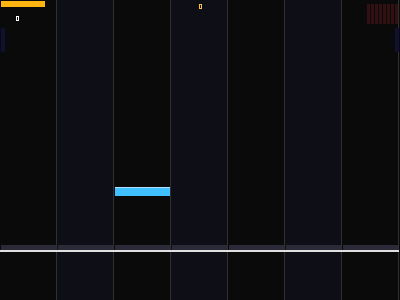
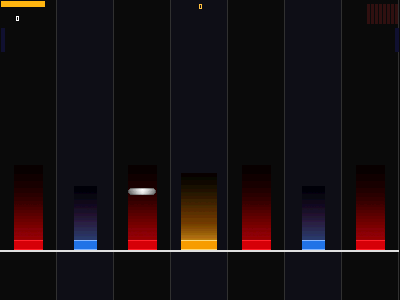
feat(cli): stage note skins in shots

Changed region(s): [[0.0, 0.6, 1.0, 0.84]]

diff --git a/crates/recomp2jam/src/shots.rs b/crates/recomp2jam/src/shots.rs
@@ -15,7 +15,7 @@ use o2jam_shell::avatar::{
     WAITING_BLOCK,
 };
 use o2jam_shell::screens::paint::PLAYING_BLOCK;
-use o2jam_shell::{GameLoop, MenuKey, Screen, ScreenGame};
+use o2jam_shell::{GameLoop, MenuKey, PlaySkin, Screen, ScreenGame};
 
 /// Screenshot width in pixels.
 pub const SHOT_W: usize = 400;
@@ -230,6 +230,9 @@ fn stage_playing_archive(game: &mut ScreenGame, archive: &[u8]) {
         placements.extend(full_canvas(&[PLAYING_GAUGE_SPRITE.to_owned()]));
     }
     game.load_scene(Screen::Playing, placements, figures);
+    if let Some(skin) = PlaySkin::from_archive(archive) {
+        game.set_play_skin(skin);
+    }
 }
 
 /// Layer genuine 7.55 archive art under every scene when
@@ -546,6 +549,75 @@ mod tests {
             return;
         };
         assert!(stage_single_sprite(&playing, LOADING_SPRITE).is_some());
+    }
+
+    #[test]
+    fn play_skin_decodes_every_lane_when_present() {
+        use o2jam_shell::playing::PlaySkin;
+        let Some(archive) = read_archive(PLAYING_ARCHIVE) else {
+            println!("skip: missing {PLAYING_ARCHIVE}");
+            return;
+        };
+        let Some(skin) = PlaySkin::from_archive(&archive) else {
+            panic!("playing: PlaySkin decoded no lanes");
+        };
+        assert!(!skin.is_empty());
+        assert_eq!(skin.staged_lanes(), 7);
+        for lane in 0..7u8 {
+            assert!(skin.note_head(lane).is_some(), "lane {lane}: no note head");
+            assert!(
+                skin.receptor_frame_count(lane) > 0,
+                "lane {lane}: no receptor frames"
+            );
+        }
+    }
+
+    #[test]
+    fn play_skin_keeps_fallback_without_archive() {
+        use o2jam_shell::playing::PlaySkin;
+        assert!(PlaySkin::from_archive(&[]).is_none());
+        assert!(PlaySkin::from_archive(&[0u8; 64]).is_none());
+        assert!(read_archive("No/Such.opi").is_none());
+    }
+
+    #[test]
+    fn skinned_highway_replaces_procedural_note_ink() {
+        use o2jam_render::{pack_xrgb, Frame};
+        use o2jam_shell::playing::{HighwayGeometry, LivePlay, PlaySkin};
+        const NOTE_BLUE: u32 = pack_xrgb(0x40, 0xC0, 0xFF);
+        let Some(archive) = read_archive(PLAYING_ARCHIVE) else {
+            println!("skip: missing {PLAYING_ARCHIVE}");
+            return;
+        };
+        let Some(skin) = PlaySkin::from_archive(&archive) else {
+            println!("skip: PlaySkin decoded no lanes");
+            return;
+        };
+        assert!(skin.note_head(2).is_some());
+        let paint_notes = |skinned: bool| {
+            let mut live = LivePlay::new(&[(2, 1500, 7)]);
+            if skinned {
+                live.set_skin(skin.clone());
+            }
+            let geom = HighwayGeometry::centered(SHOT_W, SHOT_H);
+            let mut buf = vec![0u32; SHOT_W * SHOT_H];
+            live.paint(
+                &mut Frame {
+                    buf: &mut buf,
+                    w: SHOT_W,
+                    h: SHOT_H,
+                },
+                &geom,
+                1_000,
+            );
+            buf
+        };
+        let plain = paint_notes(false);
+        assert!(plain.contains(&NOTE_BLUE), "procedural note ink missing");
+        let staged = paint_notes(true);
+        assert_ne!(plain, staged, "skin changed no pixels");
+        assert!(!staged.contains(&NOTE_BLUE), "procedural core under skin");
+        assert!(is_varied(&to_rgb(&staged)), "skinned frame is flat");
     }
 
     #[test]
